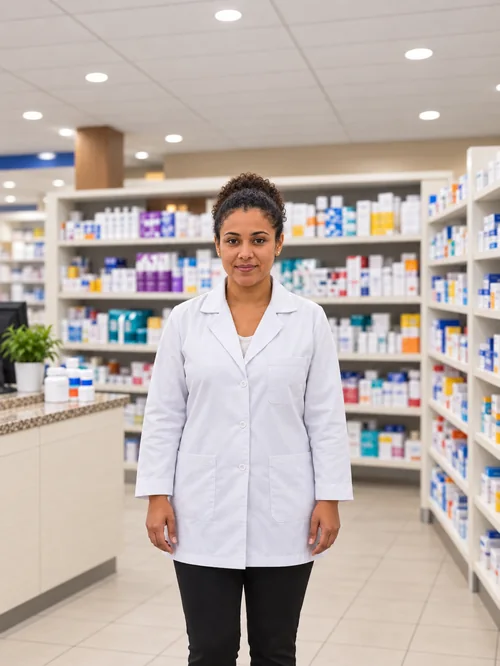
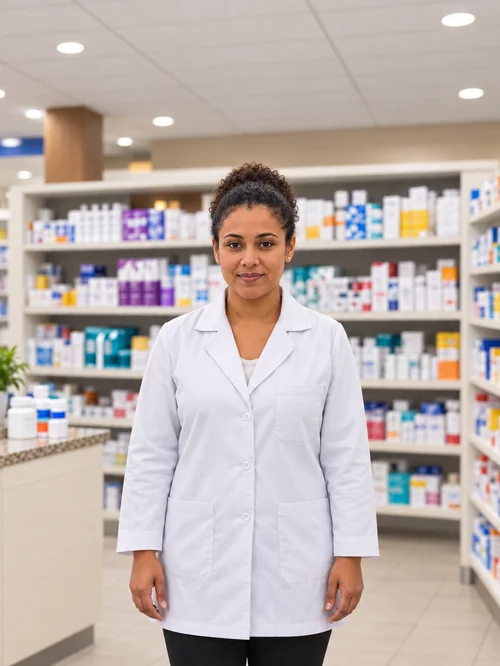
Padroniza as seis fotos da vitrine pelo rosto DETECTADO, não por estimativa
Parei de estimar. Instalei um detector de rosto (OpenCV, cascata Haar) e medi o
que estava na página. O resultado explica a irritação do Victor — a largura do
rosto, como porcentagem da largura do painel:

  Papelaria   30,8%
  Farmácia    36,7%
  Landim      42,9%
  Naldo       45,4%
  Variedades  48,3%
  RN Grifes   61,3%     ← o dobro da papelaria

Nem os dois que eu vinha chamando de "padrão aprovado" eram iguais entre si:
Landim 42,9% contra RN Grifes 61,3%. Todas as minhas medições anteriores — pele
por regra RGB, nitidez por coluna — davam números errados porque a prateleira
com produtos em tom quente é lida como pele e o fundo tem tanto detalhe quanto
a pessoa.

Agora cada uma é recortada para o rosto cair no MESMO ponto: 42% da largura do
painel, centro em 50% na horizontal e 38% na vertical. Quando falta cenário
para afastar, a cena é estendida por espelhamento das bordas — o fundo dessas
fotos é prateleira e teto, que são repetitivos.

Resultado medido no recorte real do painel (240x832 com cover):

               antes          agora
  rosto        30,5 pontos    3,3 pontos de variação
  centro x     —              0,8 ponto
  centro y     —              0,2 ponto

Um defeito que o processo criou e que a medição pegou: na primeira passada o
recorte saía dos limites da imagem e o PIL preenchia com preto — faixa preta no
rodapé de quatro painéis. Agora a cena é espelhada com margem folgada antes do
recorte, e um assert garante que ele cabe inteiro.
[…]

diff --git a/public/index.html b/public/index.html
@@ -518,8 +518,8 @@
 
             <div class="vitrine sangria">
                 <a class="vitrine__item vitrine__item--real" href="/segmentos/loja-de-celulares-e-acessorios/">
-                    <img src="/assets/lojistas/vitrine/celulares-e-acessorios-500.webp?v=f38d21df04"
-                         srcset="/assets/lojistas/vitrine/celulares-e-acessorios-500.webp?v=f38d21df04 500w, /assets/lojistas/vitrine/celulares-e-acessorios-1000.webp?v=6397ac8f80 1000w"
+                    <img src="/assets/lojistas/vitrine/celulares-e-acessorios-500.webp?v=46e74282e0"
+                         srcset="/assets/lojistas/vitrine/celulares-e-acessorios-500.webp?v=46e74282e0 500w, /assets/lojistas/vitrine/celulares-e-acessorios-1000.webp?v=cb389a6cb9 1000w"
                          sizes="(min-width: 72rem) 680px, (min-width: 48rem) 33vw, 50vw"
                          width="500" height="667" loading="lazy" decoding="async" alt="Gabriel Landim no balcão da sua loja de celulares e acessórios, cliente SoftPay" />
                     <span class="vitrine__selo">Gabriel Landim · cliente</span>
@@ -529,8 +529,8 @@
                     </span>
                 </a>
                 <a class="vitrine__item vitrine__item--real" href="/segmentos/loja-de-roupas/">
-                    <img src="/assets/lojistas/vitrine/loja-de-roupas-500.webp?v=75d5dbff54"
-                         srcset="/assets/lojistas/vitrine/loja-de-roupas-500.webp?v=75d5dbff54 500w, /assets/lojistas/vitrine/loja-de-roupas-1000.webp?v=a108810659 1000w"
+                    <img src="/assets/lojistas/vitrine/loja-de-roupas-500.webp?v=f508a239c0"
+                         srcset="/assets/lojistas/vitrine/loja-de-roupas-500.webp?v=f508a239c0 500w, /assets/lojistas/vitrine/loja-de-roupas-1000.webp?v=c60e2f501a 1000w"
                          sizes="(min-width: 72rem) 680px, (min-width: 48rem) 33vw, 50vw"
                          width="500" height="667" loading="lazy" decoding="async" alt="Neto, da RN Grifes, no caixa da loja de roupas, cliente SoftPay" />
                     <span class="vitrine__selo">RN Grifes · cliente</span>
@@ -540,8 +540,8 @@
                     </span>
                 </a>
                 <a class="vitrine__item vitrine__item--real" href="/segmentos/distribuidora/">
-                    <img src="/assets/lojistas/vitrine/distribuidora-500.webp?v=cdb8233411"
-                         srcset="/assets/lojistas/vitrine/distribuidora-500.webp?v=cdb8233411 500w, /assets/lojistas/vitrine/distribuidora-1000.webp?v=f318facc6f 1000w"
+                    <img src="/assets/lojistas/vitrine/distribuidora-500.webp?v=f7b9db658d"
+                         srcset="/assets/lojistas/vitrine/distribuidora-500.webp?v=f7b9db658d 500w, /assets/lojistas/vitrine/distribuidora-1000.webp?v=a08dab66bf 1000w"
                          sizes="(min-width: 72rem) 680px, (min-width: 48rem) 33vw, 50vw"
                          width="500" height="667" loading="lazy" decoding="async" alt="Dono da Naldo Bebidas dentro da distribuidora, cliente SoftPay" />
                     <span class="vitrine__selo">Naldo Bebidas · cliente</span>
@@ -551,8 +551,8 @@
                     </span>
                 </a>
                 <a class="vitrine__item" href="/segmentos/farmacia/">
-                    <img src="/assets/lojistas/vitrine/farmacia-500.webp?v=85facd67b9"
-                         srcset="/assets/lojistas/vitrine/farmacia-500.webp?v=85facd67b9 500w, /assets/lojistas/vitrine/farmacia-1000.webp?v=8e2fb01c8e 1000w"
+                    <img src="/assets/lojistas/vitrine/farmacia-500.webp?v=e458d0e959"
+                         srcset="/assets/lojistas/vitrine/farmacia-500.webp?v=e458d0e959 500w, /assets/lojistas/vitrine/farmacia-1000.webp?v=f59e997696 1000w"
                          sizes="(min-width: 72rem) 680px, (min-width: 48rem) 33vw, 50vw"
                          width="500" height="667" loading="lazy" decoding="async" alt="Farmacêutica lançando a venda no computador do balcão" />
                     <span class="vitrine__rotulo">
@@ -561,8 +561,8 @@
                     </span>
                 </a>
                 <a class="vitrine__item" href="/segmentos/papelaria/">
-                    <img src="/assets/lojistas/vitrine/papelaria-500.webp?v=aa671f7aa1"
-                         srcset="/assets/lojistas/vitrine/papelaria-500.webp?v=aa671f7aa1 500w, /assets/lojistas/vitrine/papelaria-1000.webp?v=a26e69d7e5 1000w"
+                    <img src="/assets/lojistas/vitrine/papelaria-500.webp?v=3cc0ac075f"
+                         srcset="/assets/lojistas/vitrine/papelaria-500.webp?v=3cc0ac075f 500w, /assets/lojistas/vitrine/papelaria-1000.webp?v=aed12f0606 1000w"
                          sizes="(min-width: 72rem) 680px, (min-width: 48rem) 33vw, 50vw"
                          width="500" height="667" loading="lazy" decoding="async" alt="Atendente de papelaria passando o cartão da cliente na maquininha" />
                     <span class="vitrine__rotulo">
@@ -571,8 +571,8 @@
                     </span>
                 </a>
                 <a class="vitrine__item" href="/segmentos/loja-de-variedades/">
-                    <img src="/assets/lojistas/vitrine/loja-de-variedades-500.webp?v=51026bd241"
-                         srcset="/assets/lojistas/vitrine/loja-de-variedades-500.webp?v=51026bd241 500w, /assets/lojistas/vitrine/loja-de-variedades-1000.webp?v=d0c61d4184 1000w"
+                    <img src="/assets/lojistas/vitrine/loja-de-variedades-500.webp?v=3f51ff7cf2"
+                         srcset="/assets/lojistas/vitrine/loja-de-variedades-500.webp?v=3f51ff7cf2 500w, /assets/lojistas/vitrine/loja-de-variedades-1000.webp?v=9578021de2 1000w"
                          sizes="(min-width: 72rem) 680px, (min-width: 48rem) 33vw, 50vw"
                          width="500" height="667" loading="lazy" decoding="async" alt="Lojista organizando a prateleira da loja de variedades" />
                     <span class="vitrine__rotulo">

diff --git a/tools/pad2.py b/tools/pad2.py
@@ -1,0 +1,62 @@
+import sys; sys.path.insert(0,'/tmp')
+import numpy as np
+from PIL import Image, ImageOps
+from rosto import det, rosto, cover, CW, CH
+import cv2
+
+ALVO_W, ALVO_CX, ALVO_CY = 0.42, 0.50, 0.38   # no PAINEL
+
+def acha(im):
+    a = np.asarray(im.convert('RGB')); h=a.shape[0]
+    y0,y1 = int(h*0.05), int(h*0.62)
+    g = cv2.equalizeHist(cv2.cvtColor(a[y0:y1], cv2.COLOR_RGB2GRAY))
+    for esc,viz in ((1.03,6),(1.05,5),(1.08,4),(1.1,3),(1.05,2)):
+        f = det.detectMultiScale(g, scaleFactor=esc, minNeighbors=viz, minSize=(30,30))
+        if len(f):
+            x,y,w,hh = max(f, key=lambda r:r[2]); return w, x+w/2, y0+y+hh/2
+    return None
+
+def espelha(im, larg, alt):
+    """cresce a cena por espelhamento até caber `larg` x `alt`, centrada"""
+    w,h = im.size
+    bx = max(0, int(np.ceil((larg-w)/2)) + 4)
+    by = max(0, int(np.ceil((alt-h)/2)) + 4)
+    if bx: 
+        bx = min(bx, w-1)
+        o = Image.new('RGB',(w+2*bx,h))
+        o.paste(ImageOps.mirror(im.crop((0,0,bx,h))),(0,0)); o.paste(im,(bx,0))
+        o.paste(ImageOps.mirror(im.crop((w-bx,0,w,h))),(bx+w,0)); im=o; w=im.width
+    if by:
+        by = min(by, h-1)
+        o = Image.new('RGB',(w,h+2*by))
+        o.paste(ImageOps.flip(im.crop((0,0,w,by))),(0,0)); o.paste(im,(0,by))
+        o.paste(ImageOps.flip(im.crop((0,h-by,w,h))),(0,by+h)); im=o
+    return im, bx, by
+
+def gerar(fonte, slug):
+    im = Image.open(fonte).convert('RGB')
+    r = acha(im)
+    if not r: return f'{slug}: rosto não encontrado'
+    wF, cxF, cyF = r
+    # a faixa que o painel mostra é 38,46% da largura do arquivo 3:4
+    faixa = (CW/CH)/(3/4)
+    # quero: wF / (L*faixa) = ALVO_W  →  L = wF/(ALVO_W*faixa)
+    L = wF/(ALVO_W*faixa)
+    A = L*4/3
+    # o rosto tem de ficar no centro da FAIXA (que é o centro do recorte)
+    # e a ALVO_CY da altura do recorte
+    # margem generosa: o recorte tem de caber INTEIRO, senão sobra faixa preta
+    prec_l = 2*max(cxF, im.width-cxF) + L
+    prec_a = 2*max(cyF, im.height-cyF) + A
+    im2, bx, by = espelha(im, prec_l, prec_a)
+    cx2, cy2 = cxF+bx, cyF+by
+    x0 = cx2 - L/2
+    y0 = cy2 - A*ALVO_CY
+    # garante que o recorte cabe INTEIRO dentro da imagem
+    assert x0 >= -1 and y0 >= -1 and x0+L <= im2.width+1 and y0+A <= im2.height+1, \
+        f'{slug}: recorte fora dos limites {x0:.0f},{y0:.0f} {L:.0f}x{A:.0f} em {im2.size}'
+    x0 = max(0, min(im2.width-L, x0)); y0 = max(0, min(im2.height-A, y0))
+    rec = im2.crop((int(x0),int(y0),int(x0+L),int(y0+A))).resize((1000,1333), Image.LANCZOS)
+    for Lp in (500,1000):
+        rec.resize((Lp,int(Lp*4/3)), Image.LANCZOS).save(f'assets/lojistas/vitrine/{slug}-{Lp}.webp','WEBP',quality=84,method=6)
+    return f'{slug}: recorte {int(L)}x{int(A)} de {im2.size} (espelhou {bx}/{by})'

diff --git a/tools/rosto.py b/tools/rosto.py
@@ -1,0 +1,29 @@
+import cv2, numpy as np
+from PIL import Image
+CW, CH = 240, 832
+det = cv2.CascadeClassifier(cv2.data.haarcascades + 'haarcascade_frontalface_default.xml')
+
+def cover(im, cw=CW, ch=CH):
+    w,h = im.size; s = max(cw/w, ch/h)
+    nw,nh = int(w*s+.5), int(h*s+.5)
+    im2 = im.resize((nw,nh), Image.LANCZOS)
+    return im2.crop(((nw-cw)//2,(nh-ch)//2,(nw-cw)//2+cw,(nh-ch)//2+ch))
+
+def rosto(caminho, painel=None):
+    """(largura, centro_x, centro_y) do rosto, medido no painel.
+       Busca só na faixa 12%–55% da altura: abaixo disso é tronco, e o
+       detector confunde dobra de roupa com rosto."""
+    im = Image.open(caminho).convert('RGB') if isinstance(caminho,str) else caminho
+    alvo = painel if painel is not None else cover(im)
+    a = np.asarray(alvo)
+    y0, y1 = int(CH*0.12), int(CH*0.55)
+    g = cv2.cvtColor(a[y0:y1], cv2.COLOR_RGB2GRAY)
+    g = cv2.equalizeHist(g)
+    cands = []
+    for esc, viz in ((1.03,6),(1.05,5),(1.08,4),(1.1,3)):
+        for (x,y,w,h) in det.detectMultiScale(g, scaleFactor=esc, minNeighbors=viz, minSize=(22,22)):
+            cands.append((w, x+w/2, y0+y+h/2))
+        if cands: break
+    if not cands: return None
+    # o rosto da pessoa em primeiro plano é o mais largo entre os detectados
+    return max(cands, key=lambda c: c[0])
